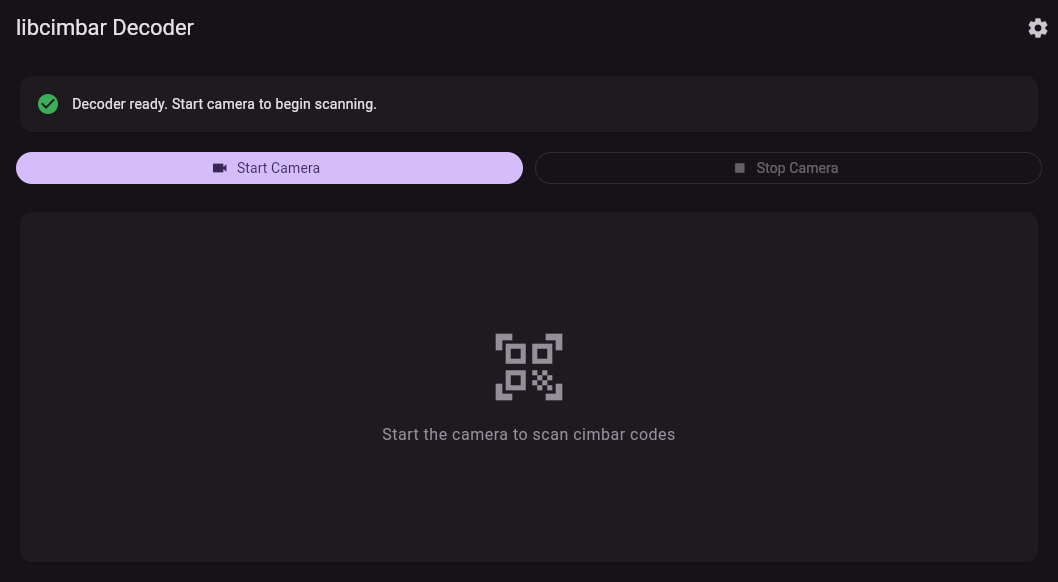
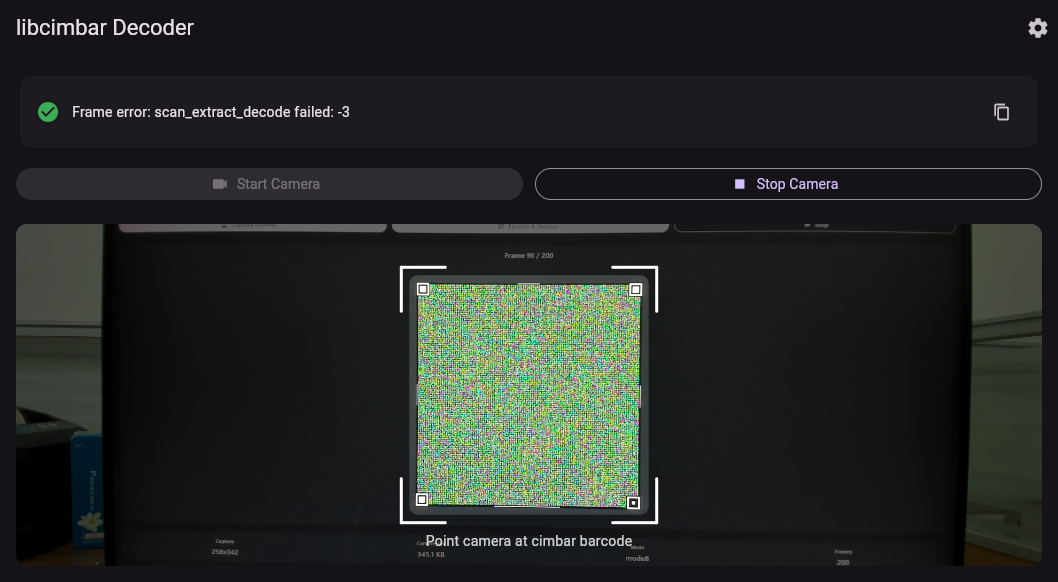
修复接收端日志

diff --git a/example/lib/decoder_page.dart b/example/lib/decoder_page.dart
@@ -147,6 +147,8 @@ class _DecoderPageState extends State<DecoderPage> {
     });
   }
 
+  int _debugFrameCount = 0;
+
   Future<void> _processCameraFrame(CameraFrame frame) async {
     if (!_isDecoding || _decoder == null) return;
 
@@ -157,6 +159,16 @@ class _DecoderPageState extends State<DecoderPage> {
         'yuv420' => CimbarImageFormat.yuv420,
         _ => CimbarImageFormat.rgb,
       };
+
+      // Debug: log first 3 frames for troubleshooting
+      _debugFrameCount++;
+      if (_debugFrameCount <= 3) {
+        debugPrint('[Frame #$_debugFrameCount] '
+            '${frame.width}x${frame.height}, '
+            'format=${frame.format}(code=${imageFormat.value}), '
+            'data=${frame.data.length} bytes '
+            '(expected=${frame.width * frame.height * (imageFormat.value > 4 ? 4 : 3)})');
+      }
 
       final result = await _decoder!.decodeFrame(
         frame.data,
@@ -349,8 +361,38 @@ class _DecoderPageState extends State<DecoderPage> {
     );
   }
 
+  /// Get the camera view type for HtmlElementView (web only).
+  String? get _cameraViewType {
+    try {
+      // WebCameraCapture has a viewType getter
+      final cam = _camera;
+      if (cam != null) {
+        return (cam as dynamic).viewType as String?;
+      }
+    } catch (_) {}
+    return null;
+  }
+
   Widget _buildCameraPreview() {
+    final vType = _cameraViewType;
+    if (_isCameraActive && vType != null) {
+      // Show camera preview with scanning frame overlay
+      return ClipRRect(
+        borderRadius: BorderRadius.circular(12),
+        child: Stack(
+          fit: StackFit.expand,
+          children: [
+            // Camera video stream
+            HtmlElementView(viewType: vType),
+            // Scanning frame overlay
+            _buildScanningOverlay(),
+          ],
+        ),
+      );
+    }
+
     if (_isCameraActive) {
+      // Camera active but no preview available
       return Card(
         child: Center(
           child: Column(
@@ -399,6 +441,58 @@ class _DecoderPageState extends State<DecoderPage> {
     );
   }
 
+  /// Scanning frame overlay: dark surroundings with a clear center frame
+  /// and animated corner brackets.
+  Widget _buildScanningOverlay() {
+    return LayoutBuilder(
+      builder: (context, constraints) {
+        final size = constraints.biggest;
+        // Square frame size: 70% of the shorter dimension
+        final frameSize = (size.shortestSide * 0.7).clamp(200.0, 500.0);
+        final frameLeft = (size.width - frameSize) / 2;
+        final frameTop = (size.height - frameSize) / 2;
+        final frameRect =
+            Rect.fromLTWH(frameLeft, frameTop, frameSize, frameSize);
+
+        return Stack(
+          children: [
+            // Dark overlay with a hole cut out for the frame
+            CustomPaint(
+              size: size,
+              painter: _DarkOverlayPainter(
+                frameRect: frameRect,
+                color: Colors.black.withValues(alpha: 0.6),
+              ),
+            ),
+            // Corner brackets
+            CustomPaint(
+              size: size,
+              painter: _CornerBracketsPainter(
+                frameRect: frameRect,
+                color: Colors.white,
+                bracketLength: frameSize * 0.15,
+                strokeWidth: 3.0,
+              ),
+            ),
+            // Scanning hint text below frame
+            Positioned(
+              left: 0,
+              right: 0,
+              top: frameRect.bottom + 16,
+              child: Text(
+                'Point camera at cimbar barcode',
+                textAlign: TextAlign.center,
+                style: Theme.of(context).textTheme.bodyMedium?.copyWith(
+                      color: Colors.white.withValues(alpha: 0.8),
+                    ),
+              ),
+            ),
+          ],
+        );
+      },
+    );
+  }
+
   Widget _buildResultPanel() {
     return Card(
       color: Theme.of(context).colorScheme.primaryContainer,
@@ -440,4 +534,109 @@ class _DecoderPageState extends State<DecoderPage> {
     _decoder?.dispose();
     super.dispose();
   }
+}
+
+// ─── Scanning frame painters ────────────────────────────────────
+
+/// Draws a dark overlay with a rectangular hole for the scanning frame.
+class _DarkOverlayPainter extends CustomPainter {
+  final Rect frameRect;
+  final Color color;
+
+  _DarkOverlayPainter({required this.frameRect, required this.color});
+
+  @override
+  void paint(Canvas canvas, Size size) {
+    final paint = Paint()..color = color;
+    final fullRect = Rect.fromLTWH(0, 0, size.width, size.height);
+
+    // Draw the dark overlay
+    final path = Path()
+      ..addRect(fullRect)
+      ..addRRect(RRect.fromRectAndRadius(frameRect, const Radius.circular(8)))
+      ..fillType = PathFillType.evenOdd;
+    canvas.drawPath(path, paint);
+  }
+
+  @override
+  bool shouldRepaint(_DarkOverlayPainter old) =>
+      old.frameRect != frameRect || old.color != color;
+}
+
+/// Draws corner brackets at the four corners of the scanning frame.
+class _CornerBracketsPainter extends CustomPainter {
+  final Rect frameRect;
+  final Color color;
+  final double bracketLength;
+  final double strokeWidth;
+
+  _CornerBracketsPainter({
+    required this.frameRect,
+    required this.color,
+    required this.bracketLength,
+    required this.strokeWidth,
+  });
+
+  @override
+  void paint(Canvas canvas, Size size) {
+    final paint = Paint()
+      ..color = color
+      ..strokeWidth = strokeWidth
+      ..style = PaintingStyle.stroke
+      ..strokeCap = StrokeCap.round;
+
+    final l = bracketLength;
+    const r = 8.0; // corner radius offset
+
+    // Top-left
+    canvas.drawLine(
+      Offset(frameRect.left - r, frameRect.top + l),
+      Offset(frameRect.left - r, frameRect.top - r),
+      paint,
+    );
+    canvas.drawLine(
+      Offset(frameRect.left - r, frameRect.top - r),
+      Offset(frameRect.left + l, frameRect.top - r),
+      paint,
+    );
+
+    // Top-right
+    canvas.drawLine(
+      Offset(frameRect.right + r, frameRect.top + l),
+      Offset(frameRect.right + r, frameRect.top - r),
+      paint,
+    );
+    canvas.drawLine(
+      Offset(frameRect.right + r, frameRect.top - r),
+      Offset(frameRect.right - l, frameRect.top - r),
+      paint,
+    );
+
+    // Bottom-left
+    canvas.drawLine(
+      Offset(frameRect.left - r, frameRect.bottom - l),
+      Offset(frameRect.left - r, frameRect.bottom + r),
+      paint,
+    );
+    canvas.drawLine(
+      Offset(frameRect.left - r, frameRect.bottom + r),
+      Offset(frameRect.left + l, frameRect.bottom + r),
+      paint,
+    );
+
+    // Bottom-right
+    canvas.drawLine(
+      Offset(frameRect.right + r, frameRect.bottom - l),
+      Offset(frameRect.right + r, frameRect.bottom + r),
+      paint,
+    );
+    canvas.drawLine(
+      Offset(frameRect.right + r, frameRect.bottom + r),
+      Offset(frameRect.right - l, frameRect.bottom + r),
+      paint,
+    );
+  }
+
+  @override
+  bool shouldRepaint(_CornerBracketsPainter old) => old.frameRect != frameRect;
 }

diff --git a/lib/src/web/web_camera_capture.dart b/lib/src/web/web_camera_capture.dart
@@ -5,6 +5,7 @@
 import 'dart:async';
 import 'dart:js_interop';
 import 'dart:typed_data';
+import 'dart:ui_web' as ui_web;
 
 import '../interfaces/camera_capture_interface.dart';
 
@@ -59,6 +60,7 @@ class WebCameraCapture implements ICameraCapture {
   Timer? _frameTimer;
   CameraFrameCallback? _callback;
   bool _streaming = false;
+  String? _viewType;
 
   int _videoWidth = 0;
   int _videoHeight = 0;
@@ -70,6 +72,9 @@ class WebCameraCapture implements ICameraCapture {
 
   @override
   bool get isStreaming => _streaming;
+
+  /// Platform view type for embedding the video element.
+  String? get viewType => _viewType;
 
   @override
   Future<void> start({
@@ -91,6 +96,8 @@ class WebCameraCapture implements ICameraCapture {
     _setProp(video, 'muted', true.toJS);
     _setProp(video, 'playsInline', true.toJS);
     _setProp(video, 'srcObject', stream);
+    // Style the video element to fill its container
+    _setProp(video, 'style', 'width:100%;height:100%;object-fit:cover;'.toJS);
     _video = video;
 
     // Listen for loadedmetadata
@@ -124,6 +131,13 @@ class WebCameraCapture implements ICameraCapture {
     _setProp(canvas, 'height', _videoHeight.toJS);
     final getCtx = _reflectGet(canvas, 'getContext'.toJS) as JSFunction?;
     _ctx = getCtx?.callAsFunction(canvas, '2d'.toJS) as JSObject?;
+
+    // Register video element as a Flutter platform view
+    _viewType = 'libcimbar-camera-${DateTime.now().millisecondsSinceEpoch}';
+    ui_web.platformViewRegistry.registerViewFactory(
+      _viewType!,
+      (int viewId) => video,
+    );
 
     _streaming = true;
     _frameTimer = Timer.periodic(
@@ -177,27 +191,58 @@ class WebCameraCapture implements ICameraCapture {
     final vh = _getIntProp(video, 'videoHeight') ?? _videoHeight;
     if (vw <= 0 || vh <= 0) return;
 
-    // Draw video frame to canvas: ctx.drawImage(video, 0, 0)
-    final drawImage = _reflectGet(ctx, 'drawImage'.toJS) as JSFunction?;
-    drawImage?.callAsFunction(ctx, video, 0.toJS, 0.toJS);
+    // Calculate square crop region from center (matching scanning overlay)
+    final cropSize = vw < vh ? vw : vh;
+    final sx = (vw - cropSize) ~/ 2;
+    final sy = (vh - cropSize) ~/ 2;
 
-    // Get pixel data: ctx.getImageData(0, 0, vw, vh)
+    // Target size: 1024x1024 (optimal for cimbar decoder)
+    const targetSize = 1024;
+
+    // Resize canvas via the canvas element
+    final canvas = _reflectGet(ctx, 'canvas'.toJS) as JSObject?;
+    if (canvas != null) {
+      _setProp(canvas, 'width', targetSize.toJS);
+      _setProp(canvas, 'height', targetSize.toJS);
+    }
+
+    // Draw cropped region scaled to target using Reflect.apply for variadic args
+    final drawImage = _reflectGet(ctx, 'drawImage'.toJS) as JSFunction?;
+    if (drawImage != null) {
+      final args = [
+        video,
+        sx.toJS, sy.toJS, cropSize.toJS, cropSize.toJS, // source rect
+        0.toJS, 0.toJS, targetSize.toJS, targetSize.toJS, // dest rect
+      ].toJS;
+      _reflectApply(drawImage, ctx, args);
+    }
+
+    // Get cropped pixel data
     final getImageData = _reflectGet(ctx, 'getImageData'.toJS) as JSFunction?;
     final imageData = getImageData?.callAsFunction(
-        ctx, 0.toJS, 0.toJS, vw.toJS, vh.toJS) as JSObject?;
+        ctx, 0.toJS, 0.toJS, targetSize.toJS, targetSize.toJS) as JSObject?;
     if (imageData == null) return;
 
     final jsData = _reflectGet(imageData, 'data'.toJS);
     if (jsData == null) return;
 
     final clampedArray = jsData as JSUint8ClampedArray;
-    final pixels = Uint8List.fromList(clampedArray.toDart);
+    final rgbaPixels = Uint8List.fromList(clampedArray.toDart);
+
+    // Convert RGBA to RGB (strip alpha channel) for cimbar decoder
+    const pixelCount = targetSize * targetSize;
+    final rgbPixels = Uint8List(pixelCount * 3);
+    for (int i = 0; i < pixelCount; i++) {
+      rgbPixels[i * 3] = rgbaPixels[i * 4]; // R
+      rgbPixels[i * 3 + 1] = rgbaPixels[i * 4 + 1]; // G
+      rgbPixels[i * 3 + 2] = rgbaPixels[i * 4 + 2]; // B
+    }
 
     _callback!(CameraFrame(
-      data: pixels,
-      width: vw,
-      height: vh,
-      format: 'rgba',
+      data: rgbPixels,
+      width: targetSize,
+      height: targetSize,
+      format: 'rgb',
       timestampUs: DateTime.now().microsecondsSinceEpoch,
     ));
   }
@@ -239,6 +284,7 @@ class WebCameraCapture implements ICameraCapture {
 
     _video = null;
     _ctx = null;
+    _viewType = null;
     _streaming = false;
   }
 

diff --git a/lib/src/web/cimbar_decoder_web.dart b/lib/src/web/cimbar_decoder_web.dart
@@ -4,6 +4,8 @@
 
 import 'dart:typed_data';
 
+import 'package:flutter/foundation.dart' show debugPrint;
+
 import '../interfaces/cimbar_decoder_interface.dart';
 import '../models/cimbar_config.dart';
 import '../models/decode_result.dart';
@@ -117,6 +119,9 @@ class CimbarDecoderFfi implements ICimbarDecoder {
       );
 
       if (bytesDecoded < 0) {
+        debugPrint('[Decoder] scan_extract_decode($width'
+            'x$height, fmt=${format.value}, '
+            'buf=${imageData.length}B) => $bytesDecoded');
         return DecodeResult.error('scan_extract_decode failed: $bytesDecoded');
       }
       if (bytesDecoded == 0) {
